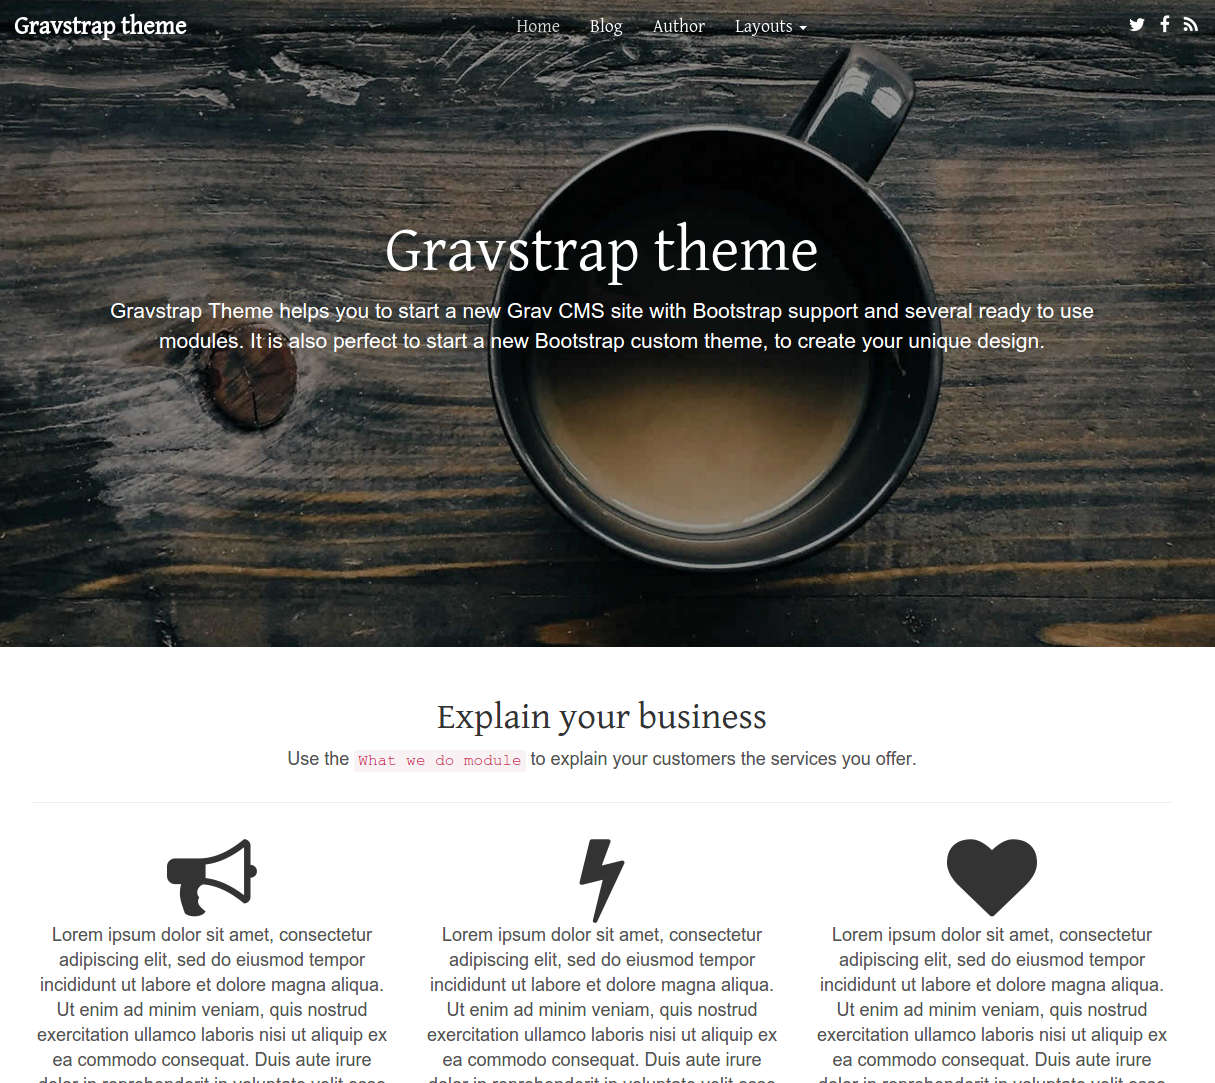
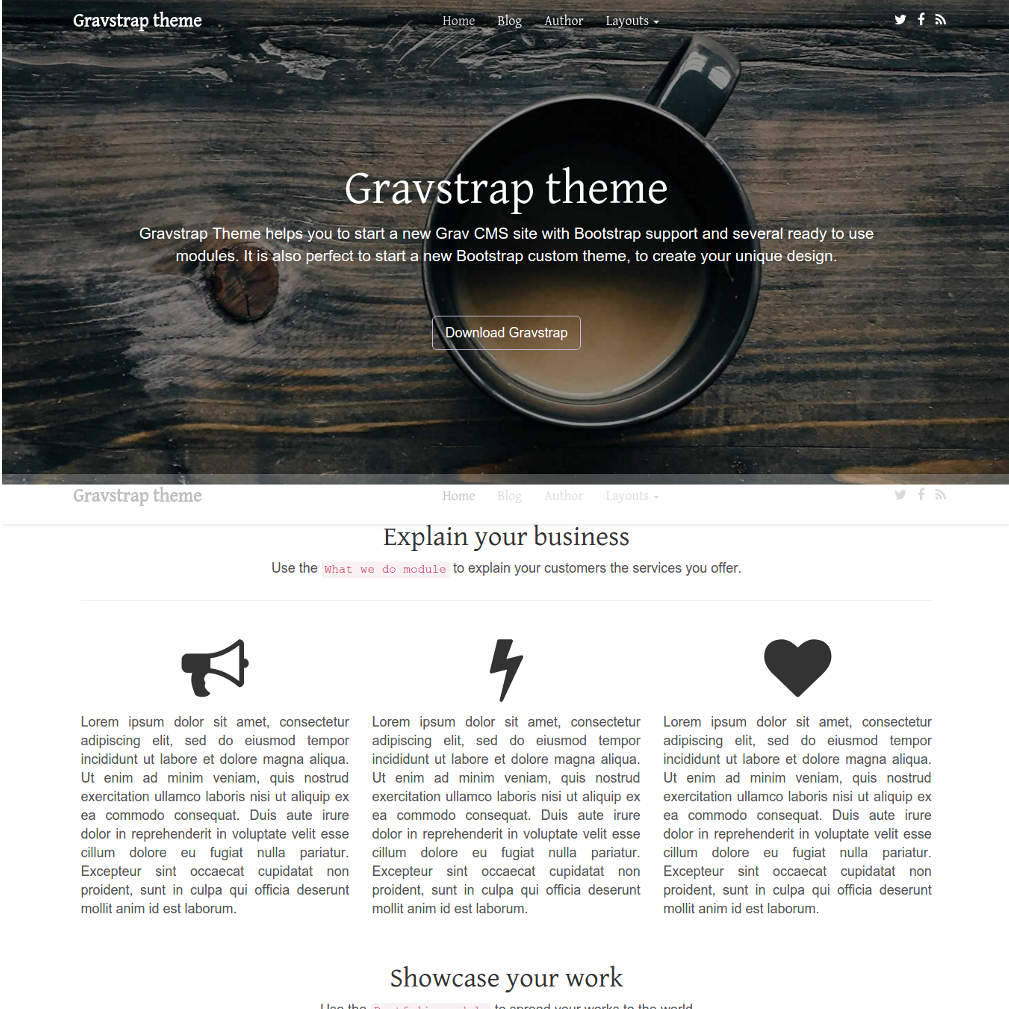
Theme can be selected from Admin Panel

diff --git a/CHANGELOG.md b/CHANGELOG.md
@@ -1,3 +1,11 @@
+# v0.9.8
+## 12/19/2015
+
+1. [](#new)
+    * Theme can be selected from Admin Panel
+    * Added missing gravstrap-theme.yml, thumbnail.jpg
+    * Taken a better screenshot
+
 # v0.9.7
 ## 12/16/2015
 
